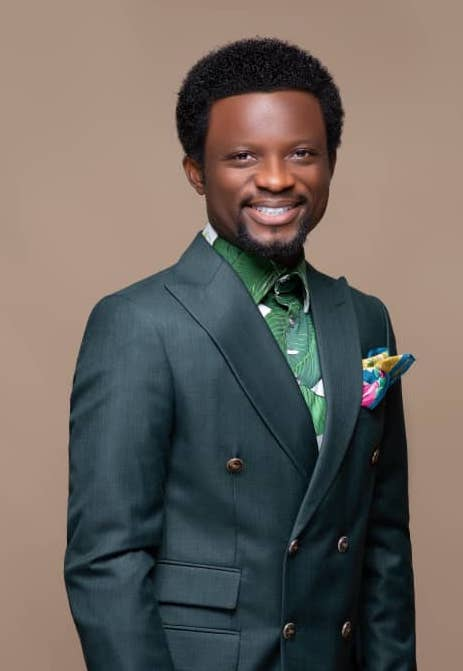
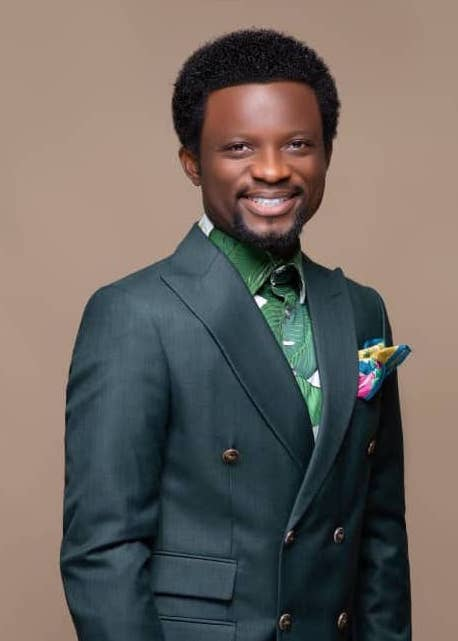
update director

diff --git a/about.html b/about.html
@@ -230,7 +230,7 @@
       <div class="row">
         <div class="col-lg-6 col-md-6">
           <div class="team-member">
-            <img src="img/director.jpeg" alt>
+            <img src="img/director.png" alt>
             <div class="member-info">
               <h2>Obinna Nwanma</h2>
               <p>Managing Director</p>
@@ -239,7 +239,7 @@
         </div>
         <div class="col-lg-6 col-md-6">
           <div class="team-member">
-            <img src="img/mike.jpg" alt>
+            <img src="img/mike01.png" alt>
             <div class="member-info">
               <h2>Bar. Mike Epelle</h2>
               <p>Chief Executive</p>
@@ -253,7 +253,7 @@
   <section class="team-section spad">
     <div class="container">
       <div class="row">
-        <div class="col-lg-6 col-md-6">
+        <div class="col-lg-4 col-md-6">
           <div class="team-member">
             <img src="img/kene.jpg" alt>
             <div class="member-info">
@@ -262,12 +262,21 @@
             </div>
           </div>
         </div>
-        <div class="col-lg-6 col-md-6">
+        <div class="col-lg-4 col-md-6">
           <div class="team-member">
             <img src="img/ud-director.jpeg" alt>
             <div class="member-info">
               <h2>Udochukwu Nwanma</h2>
               <p>Director</p>
+            </div>
+          </div>
+        </div>
+        <div class="col-lg-4 col-md-6">
+          <div class="team-member">
+            <img src="img/Okpokiti.jpeg" alt>
+            <div class="member-info">
+              <h2>Edisemi Okpokiti</h2>
+              <p>Board Member</p>
             </div>
           </div>
         </div>
